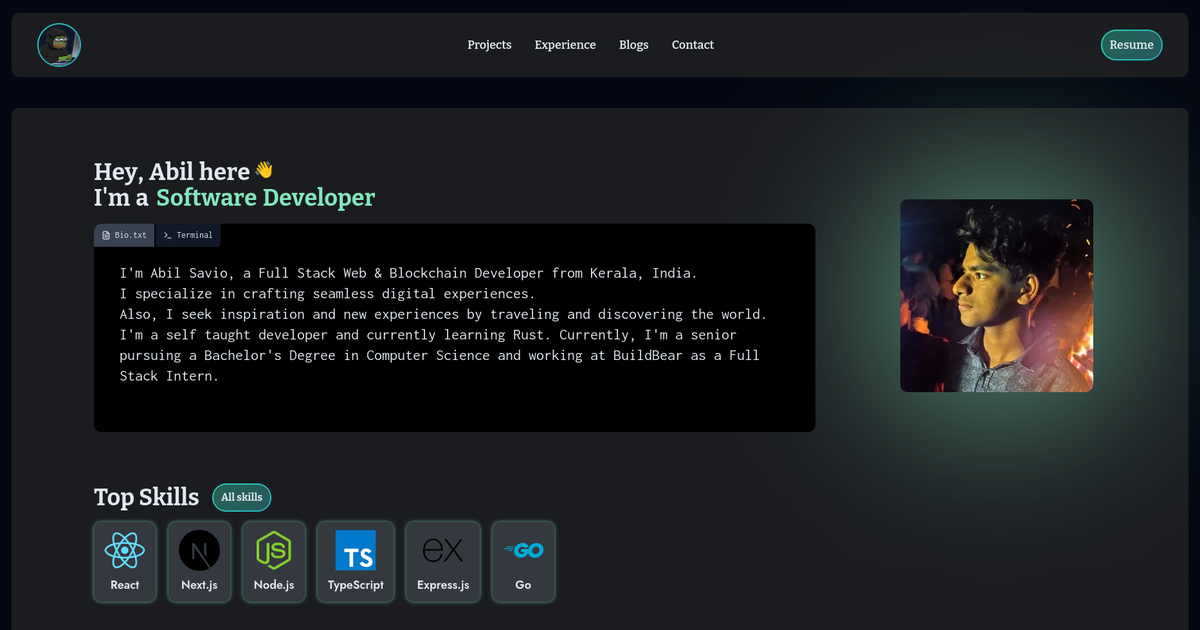
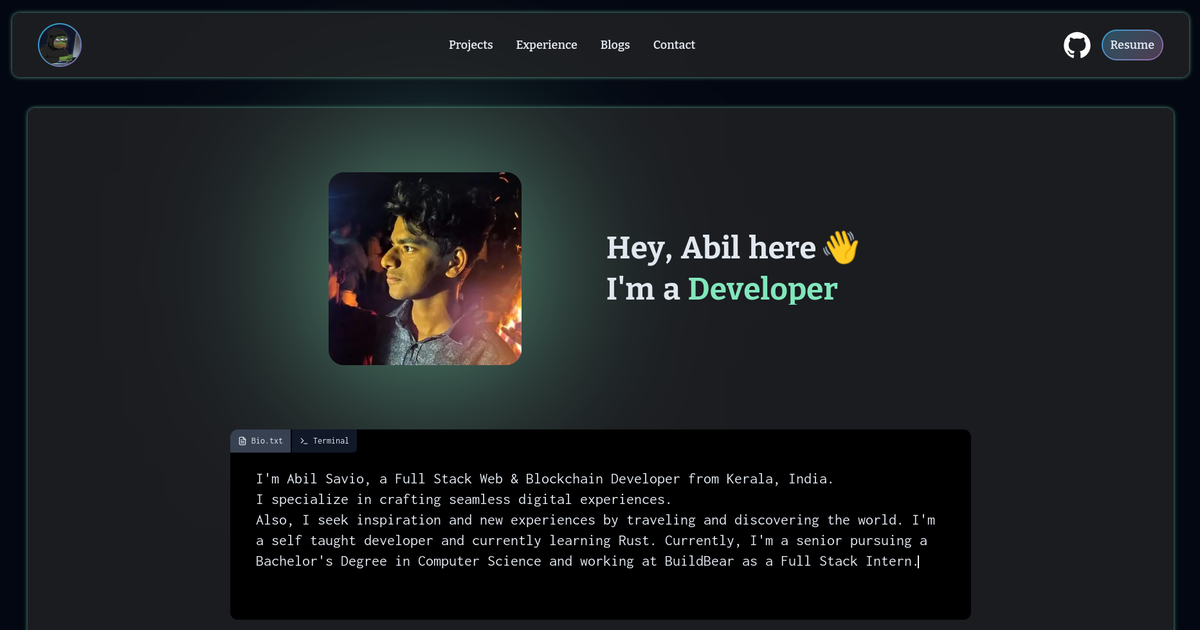
Modify intro

diff --git a/components/app/anim-text.tsx b/components/app/anim-text.tsx
@@ -11,7 +11,7 @@ const AnimText: FC = () => {
   const [textIndex, setTextIndex] = useState(0);
   const [isTransparent, setIsTransparent] = useState(true);
   const texts = [
-    'Software Developer',
+    'Developer',
     'Freelancer',
     'Creator',
     'Learner',
@@ -159,7 +159,7 @@ const AnimIntroText: FC = () => {
   return (
     <>
       <div
-        className='flex justify-center overflow-hidden font-bold text-transparent sm:justify-normal'
+        className='flex justify-center overflow-hidden py-0 font-bold text-transparent sm:justify-normal sm:py-2'
         ref={textRef1}
       >
         {text1
@@ -172,13 +172,11 @@ const AnimIntroText: FC = () => {
             )
           )}
         &nbsp;&nbsp;
-        <span id='waving-hand' className='anim-text text-xl sm:text-2xl'>
-          👋
-        </span>
+        <Letter letter='👋' id='waving-hand' />
       </div>
 
       <div
-        className='flex justify-center overflow-hidden font-bold text-transparent sm:justify-normal'
+        className='flex justify-center overflow-hidden py-0 font-bold text-transparent sm:justify-normal sm:py-2'
         ref={textRef2}
       >
         {text2
@@ -196,11 +194,17 @@ const AnimIntroText: FC = () => {
   );
 };
 
-const Letter: FC<{ space?: boolean; letter: string }> = ({ space, letter }) => {
+const Letter: FC<{ letter: string; space?: boolean; id?: string }> = ({
+  letter,
+  space,
+  id,
+}) => {
   return space ? (
-    <span className='anim-text text-xl sm:text-2xl'>&nbsp;&nbsp;</span>
+    <span className='anim-text text-xl sm:text-4xl'>&nbsp;&nbsp;</span>
   ) : (
-    <span className='anim-text text-2xl sm:text-4xl'>{letter}</span>
+    <span className='anim-text text-3xl sm:text-5xl' id={id}>
+      {letter}
+    </span>
   );
 };
 

diff --git a/app/page.tsx b/app/page.tsx
@@ -11,23 +11,26 @@ export default function Home() {
   return (
     <main className='flex flex-grow flex-col'>
       <section className='glass-effect glow-box-sm m-3 flex flex-col rounded-xl px-6 py-5 sm:mx-16 sm:mb-10 sm:mt-5 sm:px-32 sm:py-20'>
-        <div className='flex flex-col-reverse items-center gap-x-28 gap-y-5 lg:flex-row'>
-          <div className='flex flex-col justify-center'>
-            <h1 className='sm:justify-normal'>
+        <div className='flex flex-col items-center justify-center gap-x-28 gap-y-5 lg:flex-row'>
+          <div className='flex-[7]'>
+            <div className='m-5 ml-auto max-w-[180px] sm:max-w-[300px]'>
+              <Image
+                src='/assets/dp-1.jpg'
+                alt='Abil Savio'
+                height={400}
+                width={400}
+                className='glow-box overflow-hidden rounded-3xl'
+              />
+            </div>
+          </div>
+          <div className='flex flex-[8] flex-col justify-center'>
+            <h1>
               <AnimIntroText />
             </h1>
-            <Bio />
-          </div>
-          <div className='m-5 max-w-[180px] sm:max-w-[300px]'>
-            <Image
-              src='/assets/dp-1.jpg'
-              alt='Abil Savio'
-              height={400}
-              width={400}
-              className='glow-box overflow-hidden rounded-xl'
-            />
           </div>
         </div>
+
+        <Bio />
 
         <div className='mt-14 sm:mt-20'>
           <Skills />

diff --git a/components/app/header.tsx b/components/app/header.tsx
@@ -22,6 +22,7 @@ import {
 } from '@/components/ui/dialog';
 import AnimBorder from '@/components/ui/anim-border';
 import { Button } from '@/components/ui/button';
+import { gitHub } from '@/components/ui/icons';
 import { cn } from '@/lib/utils';
 
 const Header: FC = () => {
@@ -68,7 +69,6 @@ const Header: FC = () => {
               </Avatar>
             </Link>
           </AnimBorder>
-
           <NavigationMenu>
             <NavigationMenuList className='hidden sm:flex'>
               {menus.map((menu, i) => (
@@ -87,6 +87,17 @@ const Header: FC = () => {
               ))}
             </NavigationMenuList>
           </NavigationMenu>
+
+          {/* github for portfolio */}
+          <a
+            className='mr-4 hidden w-11 sm:block'
+            href='https://github.com/ByteCrak07/portfolio'
+            target='_blank'
+            rel='noopener noreferrer'
+            aria-label={`Portfolio Github`}
+          >
+            {gitHub}
+          </a>
 
           {/* resume */}
           <Dialog>

diff --git a/components/app/bio.tsx b/components/app/bio.tsx
@@ -41,9 +41,9 @@ const Bio: FC = () => {
 
   return (
     <div
-      className={`${inconsolataFont.className} relative mt-3 overflow-hidden rounded-xl bg-black p-5 pt-14 sm:mt-5 sm:p-10 sm:pt-14`}
+      className={`${inconsolataFont.className} relative mx-auto mt-14 max-w-6xl overflow-hidden rounded-xl bg-black p-5 pt-14 sm:mt-20 sm:p-10 sm:pt-14`}
     >
-      <noindex className='absolute left-0 top-0 flex gap-x-0.5' aria-hidden>
+      <div className='absolute left-0 top-0 flex gap-x-0.5'>
         <button
           className={`flex items-center px-3 py-2 text-sm focus:outline-none ${
             isBioText ? 'bg-gray-700' : 'bg-gray-900'
@@ -65,7 +65,7 @@ const Bio: FC = () => {
           <Terminal size={14} />
           &nbsp;Terminal
         </button>
-      </noindex>
+      </div>
       <h2
         className={`absolute inset-0 top-10 max-w-none p-5 pt-2 text-lg sm:p-10 sm:pt-5 sm:text-2xl ${
           isBioText ? 'bg-black' : 'hidden'

diff --git a/components/app/skills.tsx b/components/app/skills.tsx
@@ -60,9 +60,9 @@ const TopSkills: FC = () => {
     <>
       <h3 className='mb-4 flex items-center gap-x-5 text-2xl font-bold sm:text-4xl'>
         Top Skills
-        <noindex className='flex items-center'>
+        <div className='flex items-center'>
           <AllSkillsWrapper />
-        </noindex>
+        </div>
       </h3>
       <div
         className={`${jostFont.className} mb-8 flex flex-wrap justify-center gap-x-5 gap-y-8 sm:justify-normal`}
